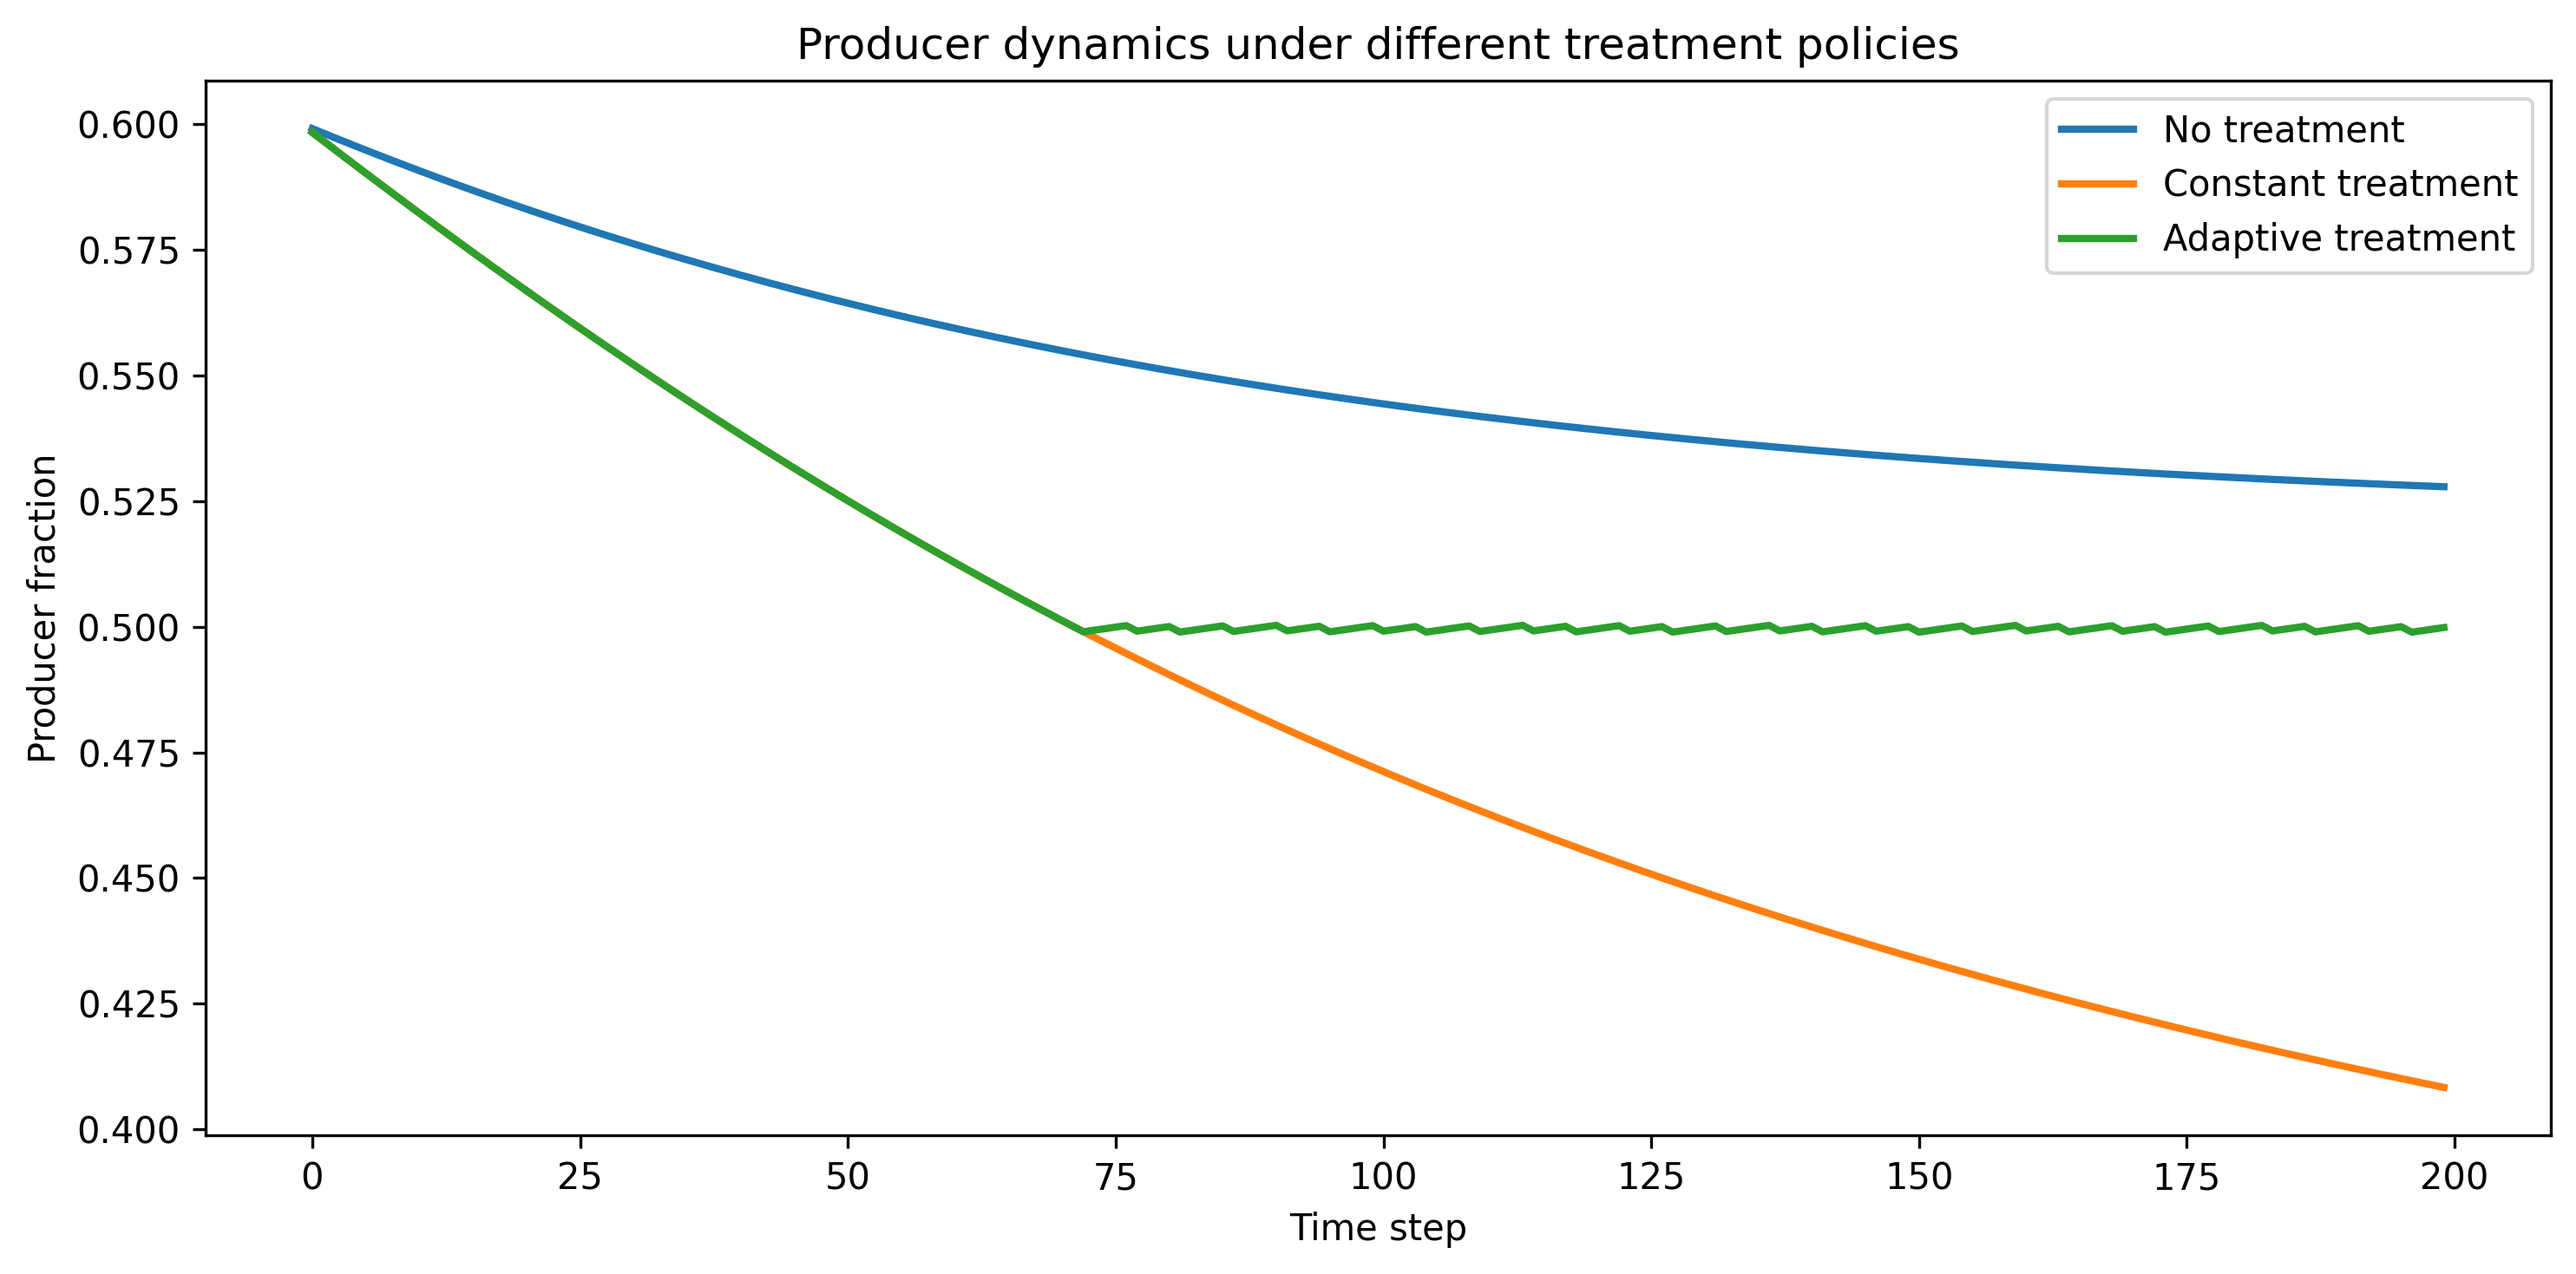
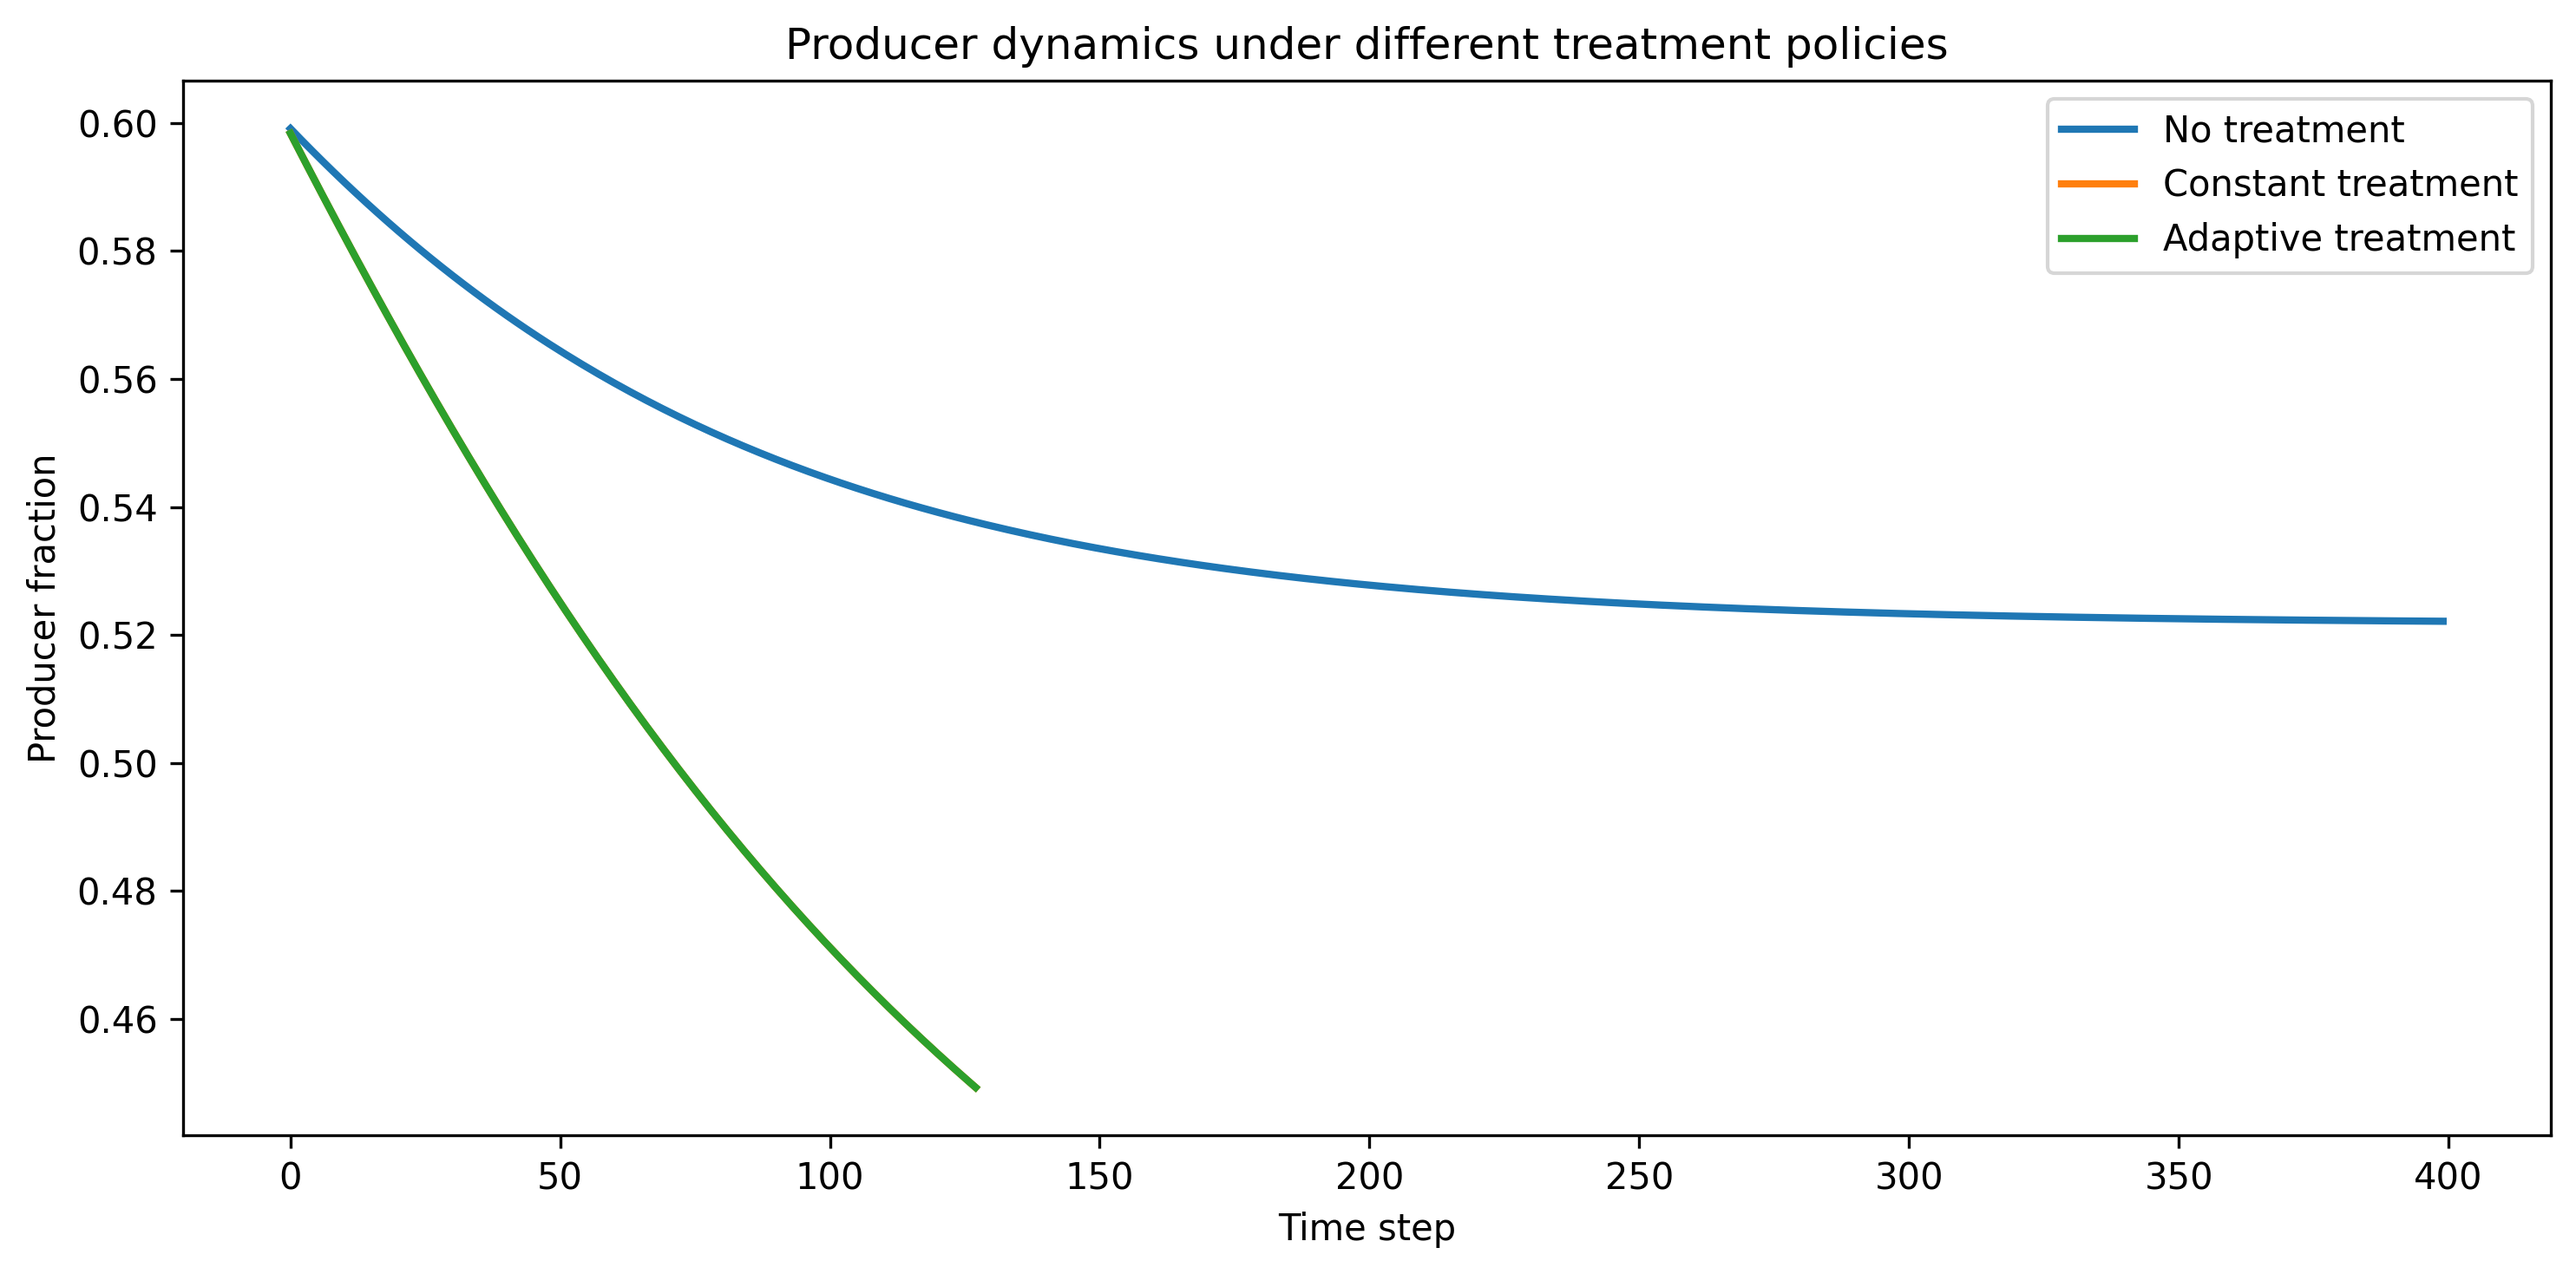
treatment done

diff --git a/treatment.py b/treatment.py
@@ -2,6 +2,7 @@ import argparse
 import os
 import numpy as np
 import matplotlib.pyplot as plt
+import csv
 
 
 def benefit_function(p, steepness=8, threshold=0.3):
@@ -104,6 +105,54 @@ def simulate_controlled_dynamics(
     }
 
 
+def save_policy_trajectory_csv(result, save_dir, filename):
+    path = os.path.join(save_dir, filename)
+    n = len(result["producer_fraction"])
+
+    with open(path, "w", newline="") as f:
+        writer = csv.writer(f)
+        writer.writerow([
+            "time_step",
+            "producer_fraction",
+            "nonproducer_fraction",
+            "producer_fitness",
+            "nonproducer_fitness",
+            "therapy"
+        ])
+        for t in range(n):
+            writer.writerow([
+                t,
+                result["producer_fraction"][t],
+                result["nonproducer_fraction"][t],
+                result["producer_fitness"][t],
+                result["nonproducer_fitness"][t],
+                result["therapy"][t]
+            ])
+
+
+def save_policy_summary_csv(results, save_dir, filename="policy_summary.csv"):
+    path = os.path.join(save_dir, filename)
+
+    with open(path, "w", newline="") as f:
+        writer = csv.writer(f)
+        writer.writerow([
+            "policy",
+            "final_producer_fraction",
+            "objective",
+            "reached_target",
+            "stopping_time"
+        ])
+
+        for name, res in results.items():
+            writer.writerow([
+                name,
+                res["producer_fraction"][-1] if len(res["producer_fraction"]) > 0 else "",
+                res["objective"],
+                res["reached_target"],
+                res["stopping_time"]
+            ])
+
+
 def plot_policy_comparison(
     p0=0.6,
     steps=200,
@@ -138,6 +187,12 @@ def plot_policy_comparison(
             sigma=sigma, p_target=p_target
         )
     }
+
+    if save_dir is not None:
+        save_policy_trajectory_csv(results["No treatment"], save_dir, "trajectory_no_treatment.csv")
+        save_policy_trajectory_csv(results["Constant treatment"], save_dir, "trajectory_constant_treatment.csv")
+        save_policy_trajectory_csv(results["Adaptive treatment"], save_dir, "trajectory_adaptive_treatment.csv")
+        save_policy_summary_csv(results, save_dir)
 
     plt.figure(figsize=(10, 5))
     for name, res in results.items():
@@ -178,19 +233,136 @@ def plot_policy_comparison(
     return results
 
 
+def adaptive_parameter_sweep_figure(
+    p0=0.6,
+    steps=400,
+    dt=0.2,
+    cost=0.05,
+    group_size=20,
+    steepness=8,
+    threshold=0.3,
+    d_values=None,
+    pcrit_values=None,
+    sigma=0.01,
+    p_target=0.45,
+    save_dir=None
+):
+    if d_values is None:
+        d_values = [0.2, 0.3, 0.4, 0.5, 0.6]
+    if pcrit_values is None:
+        pcrit_values = [0.3, 0.35, 0.4, 0.45, 0.5, 0.55]
+
+    objective_grid = np.zeros((len(pcrit_values), len(d_values)))
+    final_p_grid = np.zeros((len(pcrit_values), len(d_values)))
+
+    rows = []
+
+    for i, p_crit in enumerate(pcrit_values):
+        for j, d_max in enumerate(d_values):
+            res = simulate_controlled_dynamics(
+                p0=p0,
+                steps=steps,
+                dt=dt,
+                cost=cost,
+                group_size=group_size,
+                steepness=steepness,
+                threshold=threshold,
+                policy=threshold_treatment_policy,
+                d_max=d_max,
+                p_crit=p_crit,
+                sigma=sigma,
+                p_target=p_target
+            )
+
+            final_p = res["producer_fraction"][-1] if len(res["producer_fraction"]) > 0 else np.nan
+
+            objective_grid[i, j] = res["objective"]
+            final_p_grid[i, j] = final_p
+
+            rows.append([
+                d_max,
+                p_crit,
+                final_p,
+                res["objective"],
+                res["reached_target"],
+                res["stopping_time"]
+            ])
+
+    if save_dir is not None:
+        csv_path = os.path.join(save_dir, "adaptive_parameter_sweep.csv")
+        with open(csv_path, "w", newline="") as f:
+            writer = csv.writer(f)
+            writer.writerow([
+                "d_max",
+                "p_crit",
+                "final_producer_fraction",
+                "objective",
+                "reached_target",
+                "stopping_time"
+            ])
+            writer.writerows(rows)
+
+    fig, axes = plt.subplots(1, 2, figsize=(12, 5))
+
+    grids = [
+        (final_p_grid, "Final producer fraction", "{:.3f}"),
+        (objective_grid, "Objective value", "{:.1f}")
+    ]
+
+    for ax, (grid, title, fmt) in zip(axes.flat, grids):
+        im = ax.imshow(grid, aspect="auto", origin="lower")
+        ax.set_xticks(range(len(d_values)))
+        ax.set_xticklabels([str(x) for x in d_values])
+        ax.set_yticks(range(len(pcrit_values)))
+        ax.set_yticklabels([str(x) for x in pcrit_values])
+        ax.set_xlabel(r"$d_{\max}$")
+        ax.set_ylabel(r"$p_{\mathrm{crit}}$")
+        ax.set_title(title)
+
+        for i in range(grid.shape[0]):
+            for j in range(grid.shape[1]):
+                value = grid[i, j]
+                ax.text(
+                    j, i, fmt.format(value),
+                    ha="center", va="center",
+                    color="white" if value < (np.nanmin(grid) + np.nanmax(grid)) / 2 else "black",
+                    fontsize=9
+                )
+
+        fig.colorbar(im, ax=ax)
+
+    plt.suptitle("Adaptive therapy parameter sweep", fontsize=16)
+    plt.tight_layout()
+
+    if save_dir is not None:
+        plt.savefig(
+            os.path.join(save_dir, "adaptive_parameter_sweep_2panel.png"),
+            dpi=300,
+            bbox_inches="tight"
+        )
+    plt.show()
+
+    return {
+        "objective_grid": objective_grid,
+        "final_p_grid": final_p_grid,
+        "d_values": d_values,
+        "pcrit_values": pcrit_values
+    }
+
+
 if __name__ == "__main__":
     parser = argparse.ArgumentParser(description="Treatment extension for producer/non-producer cancer model")
     parser.add_argument("--p0", type=float, default=0.6, help="Initial producer proportion")
-    parser.add_argument("--steps", type=int, default=200, help="Number of simulation steps")
+    parser.add_argument("--steps", type=int, default=400, help="Number of simulation steps")
     parser.add_argument("--dt", type=float, default=0.2, help="Evolution step size")
     parser.add_argument("--cost", type=float, default=0.05, help="Production cost")
     parser.add_argument("--group_size", type=int, default=20, help="Group size")
     parser.add_argument("--steepness", type=float, default=8, help="Sigmoid steepness")
     parser.add_argument("--threshold", type=float, default=0.3, help="Sigmoid threshold")
     parser.add_argument("--d_max", type=float, default=0.5, help="Maximum treatment intensity")
-    parser.add_argument("--p_crit", type=float, default=0.5, help="Adaptive treatment threshold")
+    parser.add_argument("--p_crit", type=float, default=0.45, help="Adaptive treatment threshold")
     parser.add_argument("--sigma", type=float, default=0.01, help="Time penalty in the objective")
-    parser.add_argument("--p_target", type=float, default=0.1, help="Recovery target for producer fraction")
+    parser.add_argument("--p_target", type=float, default=0.45, help="Recovery target for producer fraction")
     parser.add_argument("--output_dir", type=str, default="plots_treatment", help="Folder to save plots")
 
     args = parser.parse_args()
@@ -206,6 +378,21 @@ if __name__ == "__main__":
         threshold=args.threshold,
         d_max=args.d_max,
         p_crit=args.p_crit,
+        sigma=args.sigma,
+        p_target=args.p_target,
+        save_dir=args.output_dir
+    )
+
+    adaptive_parameter_sweep_figure(
+        p0=args.p0,
+        steps=args.steps,
+        dt=args.dt,
+        cost=args.cost,
+        group_size=args.group_size,
+        steepness=args.steepness,
+        threshold=args.threshold,
+        d_values=[0.2, 0.3, 0.4, 0.5, 0.6],
+        pcrit_values=[0.3, 0.35, 0.4, 0.45, 0.5, 0.55],
         sigma=args.sigma,
         p_target=args.p_target,
         save_dir=args.output_dir

diff --git a/simulation.py b/simulation.py
@@ -3,6 +3,7 @@ import os
 import numpy as np
 import matplotlib.pyplot as plt
 from matplotlib.lines import Line2D
+import csv
 
 
 def benefit_function(p, steepness=8, threshold=0.3):
@@ -322,6 +323,75 @@ def plot_fitness_vs_fraction(cost=0.05, group_size=20, therapy_strength=0.0,
     plt.show()
 
 
+def save_simulation_csv(result, save_dir, filename="simulation_trajectory.csv"):
+    path = os.path.join(save_dir, filename)
+    n = len(result["producer_fraction"])
+
+    with open(path, "w", newline="") as f:
+        writer = csv.writer(f)
+        writer.writerow([
+            "time_step",
+            "producer_fraction",
+            "nonproducer_fraction",
+            "producer_fitness",
+            "nonproducer_fitness",
+            "therapy"
+        ])
+        for t in range(n):
+            writer.writerow([
+                t,
+                result["producer_fraction"][t],
+                result["nonproducer_fraction"][t],
+                result["producer_fitness"][t],
+                result["nonproducer_fitness"][t],
+                result["therapy"][t]
+            ])
+
+
+def save_equilibria_csv(cost=0.05, group_size=20, therapy_strength=0.0,
+                        steepness=8, threshold=0.3, save_dir=None,
+                        filename="equilibria.csv"):
+    eq_points = find_equilibria(
+        cost=cost,
+        group_size=group_size,
+        therapy_strength=therapy_strength,
+        steepness=steepness,
+        threshold=threshold
+    )
+
+    path = os.path.join(save_dir, filename)
+    with open(path, "w", newline="") as f:
+        writer = csv.writer(f)
+        writer.writerow([
+            "equilibrium_p",
+            "equilibrium_type",
+            "cost",
+            "group_size",
+            "therapy_strength",
+            "steepness",
+            "threshold"
+        ])
+
+        for p_star in eq_points:
+            eq_type = classify_equilibrium(
+                p_star,
+                cost=cost,
+                group_size=group_size,
+                therapy_strength=therapy_strength,
+                steepness=steepness,
+                threshold=threshold
+            )
+            writer.writerow([
+                p_star,
+                eq_type,
+                cost,
+                group_size,
+                therapy_strength,
+                steepness,
+                threshold
+            ])
+
+
 def plot_comparison(group_size=20, therapy_strength=0.0,
                                steepness=8, threshold=0.3,
                                high_cost=0.20, low_cost=0.05, 
@@ -492,6 +562,16 @@ if __name__ == "__main__":
         therapy_start=args.therapy_start, 
         steepness=args.steepness, 
         threshold=args.threshold 
+    )
+
+    save_simulation_csv(result, args.output_dir)
+    save_equilibria_csv(
+        cost=args.cost,
+        group_size=args.group_size,
+        therapy_strength=args.therapy_strength,
+        steepness=args.steepness,
+        threshold=args.threshold,
+        save_dir=args.output_dir
     )
 
     plot_simulation(result, title="Cancer Simulation", save_dir=args.output_dir)
